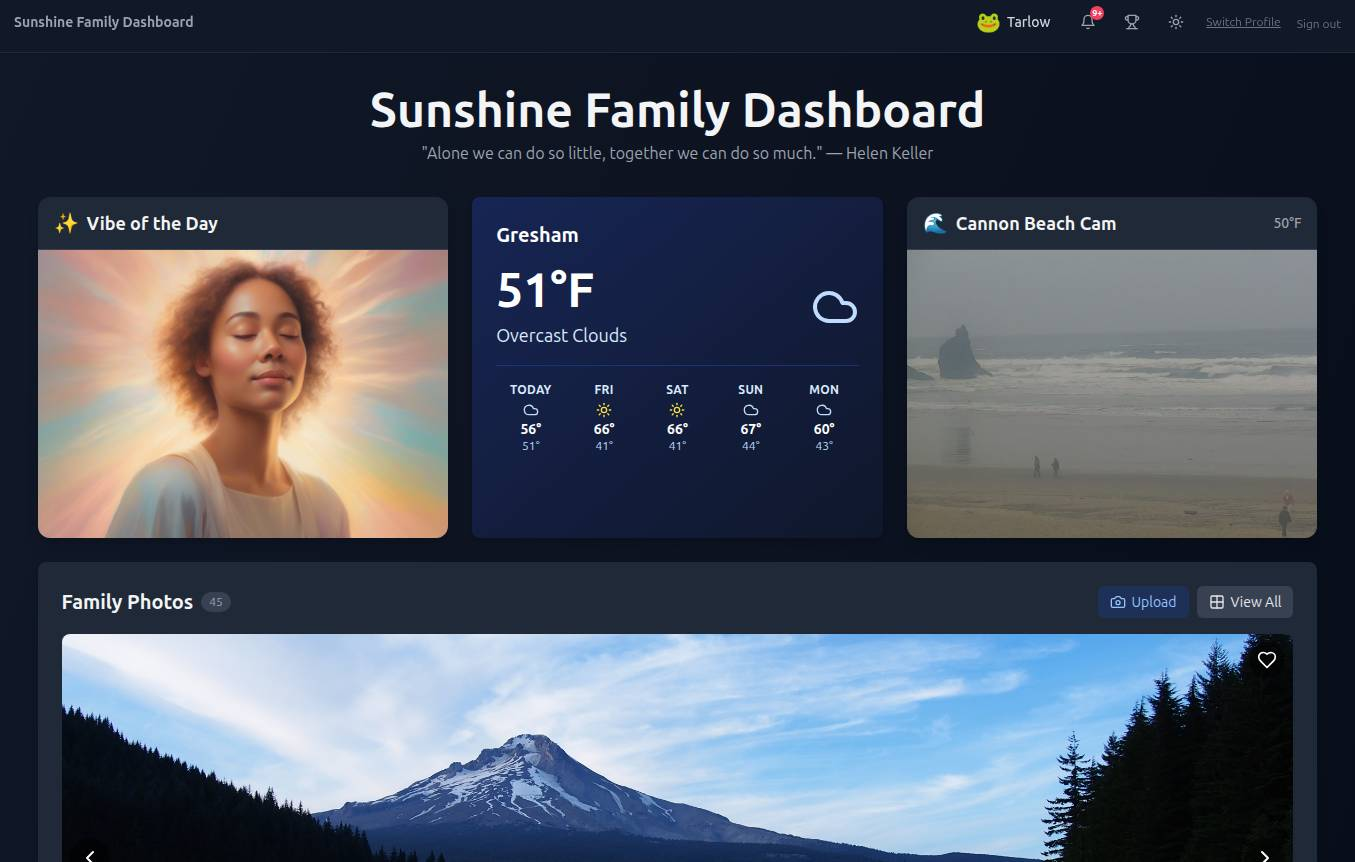
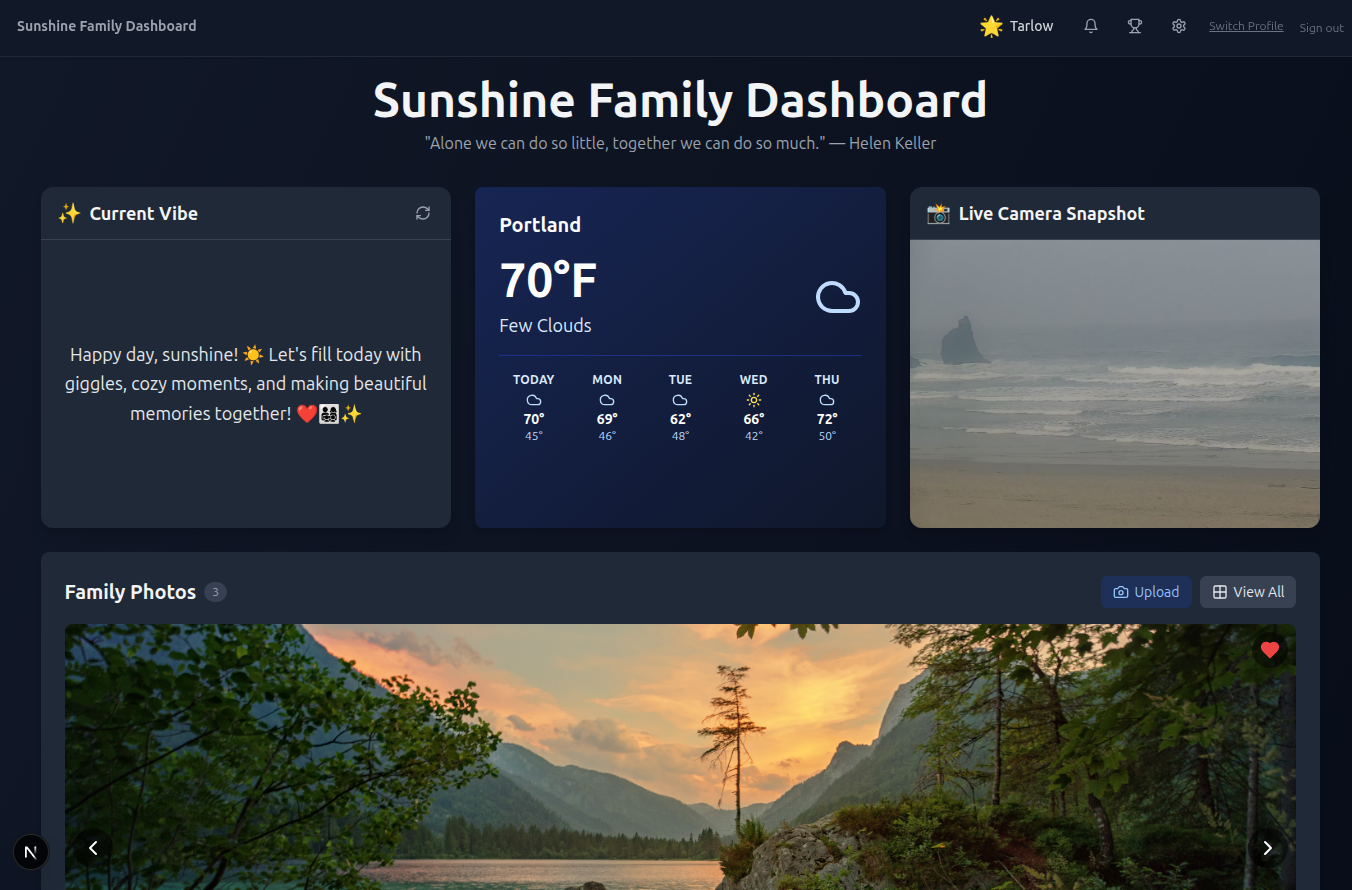
Updated Sunshine Family Dashboard project page, about page, and components for live site

diff --git a/src/content/projects/sunshine-family-dashboard.md b/src/content/projects/sunshine-family-dashboard.md
@@ -1,6 +1,6 @@
 ---
 title: 'Sunshine Family Dashboard'
-description: 'A simple private, self-hosted digital command center to keep your family organized and your data off the cloud.'
+description: 'A simple private, self-hosted digital dashboard to keep your family organized and your data/lifestyle off the internet.'
 image: '/images/sunshine-family-dashboard-screenshot.jpg'
 github: 'https://github.com/DevTarlow/sunshine-family-dashboard'
 tags: ['self-hosted', 'homelab', 'local-first', 'dashboard', 'nextjs', 'react', 'prisma', 'typescript']
@@ -9,39 +9,89 @@ featured: true
 
 ![Screenshot](/images/sunshine-family-dashboard-screenshot.jpg)
 
-The Sunshine Family Dashboard is a lightweight, local-first web application designed to be a simple but effective smart home dashboard for your household. Packaged in a single Docker container and built with Next.js and SQLite, it allows your family to seamlessly manage weekly dinner menus, shared grocery lists, daily to-dos, and sticky notes. It also features a live local weather widget and a rotating carousel of your favorite family photos. Built with privacy in mind, Family Dashboard requires no cloud databases or subscriptions and it runs entirely on your own local network, ensuring your family's data stays fast, secure, and 100% yours.
+The **Sunshine Family Dashboard** is a lightweight, local-first web app designed to be a simple but effective home dashboard.
+
+Packaged in a single Docker container and built with Next.js and SQLite, it allows your family to manage weekly dinner menus, shared grocery lists, daily to-dos, keep track of fitness days, track eating out costs, and take sticky notes.
+
+It also features a live local weather widget and a rotating carousel of your favorite family photos.
+
+The dashboard uses your local LLM to generate unique recipe ideas, custom toast alerts, and generate a vibe of the day. All AI data is processed through your local LLM which can be setup in settings.
+
+Built with privacy in mind, Family Dashboard requires no cloud databases or subscriptions and it runs entirely on your own local network, ensuring your family's data stays fast, secure, and 100% yours.
+
+This is something my wife and I use daily, so I figured some of you may too. Give it a try!
+
 
 ![Screenshot](/images/sunshine-family-dashboard-dinners-fitness.jpg)
 
-text
+One of my favorite features of the dashboard is the **Weekly Dinners** section. You can keep track of what's for dinner so the whole family knows what's for dinner! You can also drag to re-arrange dinner days or leave comments.
+
+Get a little boost of inspiration with the **Weekly Fitness** tracker where you can easily log the days you did your workout, get achievements, and inspire the other members in the family.
 
 ![Screenshot](/images/sunshine-family-dashboard-dining-out-to-do-grocery-list.jpg)
 
-asddfasd
+The **Dining Out** section let's you track the total amount you are spending on eating out each month. You can also see how much each family member is spending, this helps keep everyone accountable and shed some light on how much you are spending each month eating out.
+
+Need to keep track of things to do? Use the **To-Do List** to log your tasks and simply remove them when you are done to get a fun message.
+
+The **Grocery List** section is there to help you remember those items you needed to pick up on your next shopping trip. Simply add items to the list and copy them over to your favorite on the go app. I like to use Google Keep for my shopping notes on the go *(easy to check off and copy my whole list over)*
 
 ![Screenshot](/images/sunshine-family-dashboard-screenshot-notes-meal-prep.jpg)
+
+Have something you want the whole family to know? Add it to the **Shared Notes** panel for everyone to see.
+
+The **Meal Prep Fridge** panel is another favorite of mine. Here is where you can log what you just prepped and put into the fridge. It will fetch a related emoji, log the date, and name of the item you prepped. Great for seeing what's in the fridge without having to walk over.
+
+Similar to the shared notes panel but offering more options for links I added the **Shared Links** panel. This is where you can share important web links with the whole family.
+
+Lot's of the features can but adjusted and setup through the settings panel which is accessed on the top navigation by clicking the cog wheel icon.
 
 ## Features
 
 - Local Member login / profile with per‑member theme and background
+- Utilizes your local LLM server via LM Stuido/Ollama/etc.
 - Real‑time presence & activity feed
-- Weather widget (OpenWeatherMap)
-- Vibe‑of‑the‑Day photo
-- Cannon Beach live cam
-- Photo carousel with favorites and upload
+- Weather widget *(OpenWeatherMap API)*
+- Vibe‑of‑the‑Day AI message
+- Per Member Profile showing stats and favorite photos
+- Live Camera Snapshot *(auto refreshes cam image)*
+- Photo carousel with favorites, gallery, and upload
 - Weekly dinner planner with AI suggestion and comments
-- Fitness tracker (weekly log)
-- Dining‑out tracker (monthly)
-- Todo list
-- Grocery list
+- Fitness tracker *(weekly log)*
+- Dining‑out expense tracker *(monthly w/total user amounts)*
+- To-do list
+- Grocery list *(copy to other platforms)*
 - Notes with comment threads
-- Meal‑prep fridge (Gemini‑generated emoji)
+- Meal‑prep fridge *(AI generated emoji)*
 - Shared links board
 - Achievements system
 - Unread badges for new items/comments
-- Auto‑refresh every 30 s
-- Dark / light mode per member
+- Adjustable Auto‑refresh timer
+- Dark/light mode per member
 
 ## Tech Stack
 
-Built with modern web technologies for optimal performance and developer experience.
+I built this project from the ground up using modern tools and AI, allowing me to focus on features rather than fixing bugs.
+
+**Speed & Architecture**: The foundation is **Next.js 15**, giving the app blazing-fast performance whether it's loaded initially or when interacting with data.
+
+**Reliability First**: Everything is wrapped in **TypeScript**. This means I catch mistakes before they reach the user, making the whole experience incredibly stable and predictable.
+
+**Design Flow**: I use **Tailwind CSS** for styling—it lets me build beautiful, fully responsive designs with unmatched speed, from concept to finished product.
+
+**Data Handling**: Our back-end logic is managed by **Prisma**, a powerful ORM that makes talking to the database (SQLite) feel safe and simple, all while keeping our code perfectly typed.
+
+**Effortless Access**: Forget passwords! I implemented a smooth, cookie-based member session system designed for instant, hassle-free user onboarding.
+
+**Local AI Integration**: To keep your data private and ensure maximum speed, I integrated local Large Language Models (LLMs). This means the AI processing runs directly within your environment, keeping your information secure, offline-capable, and giving you a truly autonomous experience without relying on external cloud APIs/storage.
+
+## Get the Project
+
+Sunshine Family Dashboard is open-source and free to use. Download it from GitHub and run it on your own server.
+
+<a href="https://github.com/DevTarlow/sunshine-family-dashboard" class="project-link" target="_blank" rel="noopener noreferrer">
+  <svg xmlns="http://www.w3.org/2000/svg" width="16" height="16" viewBox="0 0 24 24" fill="none" stroke="currentColor" stroke-width="2" stroke-linecap="round" stroke-linejoin="round">
+    <path d="M9 19c-5 1.5-5-2.5-7-3m14 6v-3.87a3.37 3.37 0 0 0-.94-2.61c3.14-.35 6.44-1.54 6.44-7A5.44 5.44 0 0 0 20 4.77 5.07 5.07 0 0 0 19.91 1S18.73.65 16 2.48a13.38 13.38 0 0 0-7 0C6.27.65 5.09 1 5.09 1A5.07 5.07 0 0 0 5 4.77a5.44 5.44 0 0 0-1.5 3.78c0 5.42 3.3 6.61 6.44 7A3.37 3.37 0 0 0 9 18.13V22"></path>
+  </svg>
+  View on GitHub
+</a>
